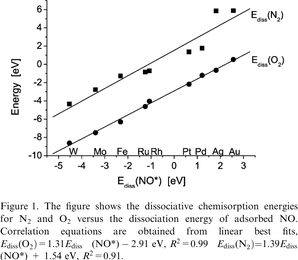
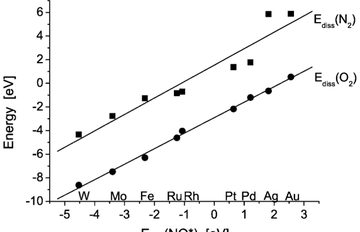
Paper 20: caption cropped (TB)
Claude-Session: https://claude.ai/code/session_01SxeLNnHMXYo5cWfC8KPoGY

diff --git a/publications.html b/publications.html
@@ -142,7 +142,7 @@
   <li><div class="pub"><figure class="pubfig"><a href="https://doi.org/10.1002/anie.200802844"><img src="pubfig/StudtEtAl2008b.jpg?v=ab9869dd" width="339" height="260" alt="Figure from this publication" loading="lazy"></a><figcaption>© Wiley</figcaption></figure><div class="pub-text"><span class="pub-num">23.</span> F. Studt, F. Abild-Pedersen, T. Bligaard, R.Z. Sørensen, C.H. Christensen, and J.K. Nørskov: On the Role of Surface Modifications of Palladium Catalysts in the Selective Hydrogenation of Acetylene, Angewandte Chemie International Edition 47, 9299–9302 (2008) <a class="doi" href="https://doi.org/10.1002/anie.200802844">doi:10.1002/anie.200802844</a></div></div></li>
   <li><div class="pub"><figure class="pubfig"><a href="https://doi.org/10.1351/pac200779111895"><img src="pubfig/FalsigEtAl2007.jpg?v=a368d6b1" width="229" height="260" alt="Figure from this publication" loading="lazy"></a><figcaption>© De Gruyter</figcaption></figure><div class="pub-text"><span class="pub-num">22.</span> H. Falsig, T. Bligaard, C.H. Christensen, and J.K. Nørskov: Direct NO decomposition over stepped transition metal surfaces, Pure and Applied Chemistry 79, 1895–1903 (2007) <a class="doi" href="https://doi.org/10.1351/pac200779111895">doi:10.1351/pac200779111895</a></div></div></li>
   <li><div class="pub"><figure class="pubfig"><a href="https://doi.org/10.1103/physrevlett.99.126101"><img src="pubfig/KarlbergEtAl2007.jpg?v=5e78889e" width="160" height="260" alt="Figure from this publication" loading="lazy"></a><figcaption>© American Physical Society</figcaption></figure><div class="pub-text"><span class="pub-num">21.</span> G.S. Karlberg, T.F. Jaramillo, E. Skulason, J. Rossmeisl, T. Bligaard, and J.K. Nørskov: Cyclic voltammograms for H on Pt(111) and Pt(100) from first principles, Physical Review Letters 99, 126101 (2007) <a class="doi" href="https://doi.org/10.1103/physrevlett.99.126101">doi:10.1103/physrevlett.99.126101</a></div></div></li>
-  <li><div class="pub"><figure class="pubfig"><a href="https://doi.org/10.1007/s11244-007-0250-7"><img src="pubfig/FalsigEtAl2007b.jpg?v=86fcff5f" width="298" height="260" alt="Figure from this publication" loading="lazy"></a><figcaption>© Springer Nature</figcaption></figure><div class="pub-text"><span class="pub-num">20.</span> H. Falsig, T. Bligaard, J. Rass-Hansen, A.L. Kustov, C.H. Christensen, and J.K. Nørskov: Trends in catalytic NO decomposition over transition metal surfaces, Topics in Catalysis 45, 117–120 (2007) <a class="doi" href="https://doi.org/10.1007/s11244-007-0250-7">doi:10.1007/s11244-007-0250-7</a></div></div></li>
+  <li><div class="pub"><figure class="pubfig"><a href="https://doi.org/10.1007/s11244-007-0250-7"><img src="pubfig/FalsigEtAl2007b.jpg?v=6dfa6dea" width="298" height="260" alt="Figure from this publication" loading="lazy"></a><figcaption>© Springer Nature</figcaption></figure><div class="pub-text"><span class="pub-num">20.</span> H. Falsig, T. Bligaard, J. Rass-Hansen, A.L. Kustov, C.H. Christensen, and J.K. Nørskov: Trends in catalytic NO decomposition over transition metal surfaces, Topics in Catalysis 45, 117–120 (2007) <a class="doi" href="https://doi.org/10.1007/s11244-007-0250-7">doi:10.1007/s11244-007-0250-7</a></div></div></li>
   <li><div class="pub"><figure class="pubfig"><a href="https://doi.org/10.1007/s11244-007-0232-9"><img src="pubfig/SehestedEtAl2007.jpg?v=9906ad3a" width="360" height="236" alt="Figure from this publication" loading="lazy"></a><figcaption>© Springer Nature</figcaption></figure><div class="pub-text"><span class="pub-num">19.</span> J. Sehested, K.E. Larsen, A.L. Kustov, A.M. Frey, T. Johannessen, T. Bligaard, M.P. Andersson, J.K. Nørskov, and C.H. Christensen: Discovery of technical methanation catalysts based on computational screening, Topics in Catalysis 45, 9–13 (2007) <a class="doi" href="https://doi.org/10.1007/s11244-007-0232-9">doi:10.1007/s11244-007-0232-9</a></div></div></li>
   <li><div class="pub"><figure class="pubfig"><a href="https://doi.org/10.1103/physrevlett.99.016105"><img src="pubfig/AbildPedersenEtAl2007.jpg?v=ad621aa4" width="359" height="260" alt="Figure from this publication" loading="lazy"></a><figcaption>© American Physical Society</figcaption></figure><div class="pub-text"><span class="pub-num">18.</span> F. Abild-Pedersen, J. Greeley, F. Studt, J. Rossmeisl, T.R. Munter, P.G. Moses, E. Skulason, T. Bligaard, and J.K. Nørskov: Scaling properties of adsorption energies for hydrogen-containing molecules on transition metal surfaces, Physical Review Letters 99, 016105 (2007) <a class="doi" href="https://doi.org/10.1103/physrevlett.99.016105">doi:10.1103/physrevlett.99.016105</a></div></div></li>
   <li><div class="pub"><figure class="pubfig"><a href="https://doi.org/10.1007/s11244-007-0335-3"><img src="pubfig/JanssensEtAl2007.jpg?v=94d11887" width="296" height="260" alt="Figure from this publication" loading="lazy"></a><figcaption>© Springer Nature</figcaption></figure><div class="pub-text"><span class="pub-num">17.</span> T.V.W. Janssens, B.S. Clausen, B.H. Larsen, H. Falsig, C.H. Christensen, T. Bligaard, and J.K. Nørskov: Insights into the Reactivity of Supported Au Nanoparticles: Combining Theory and Experiments, Topics in Catalysis 44, 15–26 (2007) <a class="doi" href="https://doi.org/10.1007/s11244-007-0335-3">doi:10.1007/s11244-007-0335-3</a></div></div></li>
